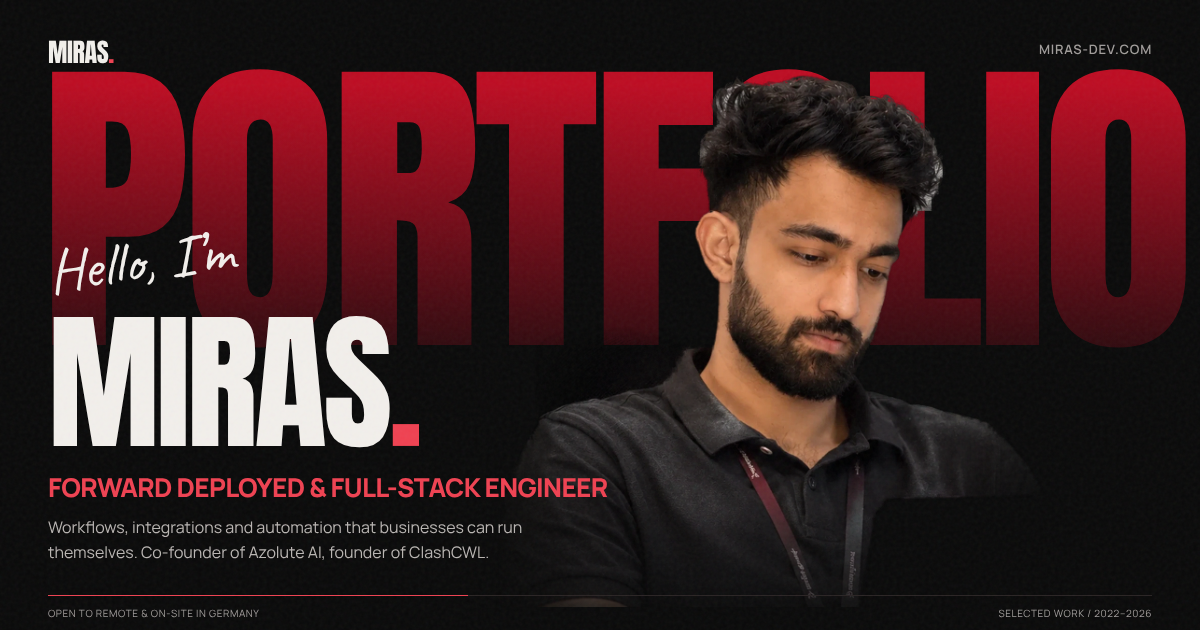
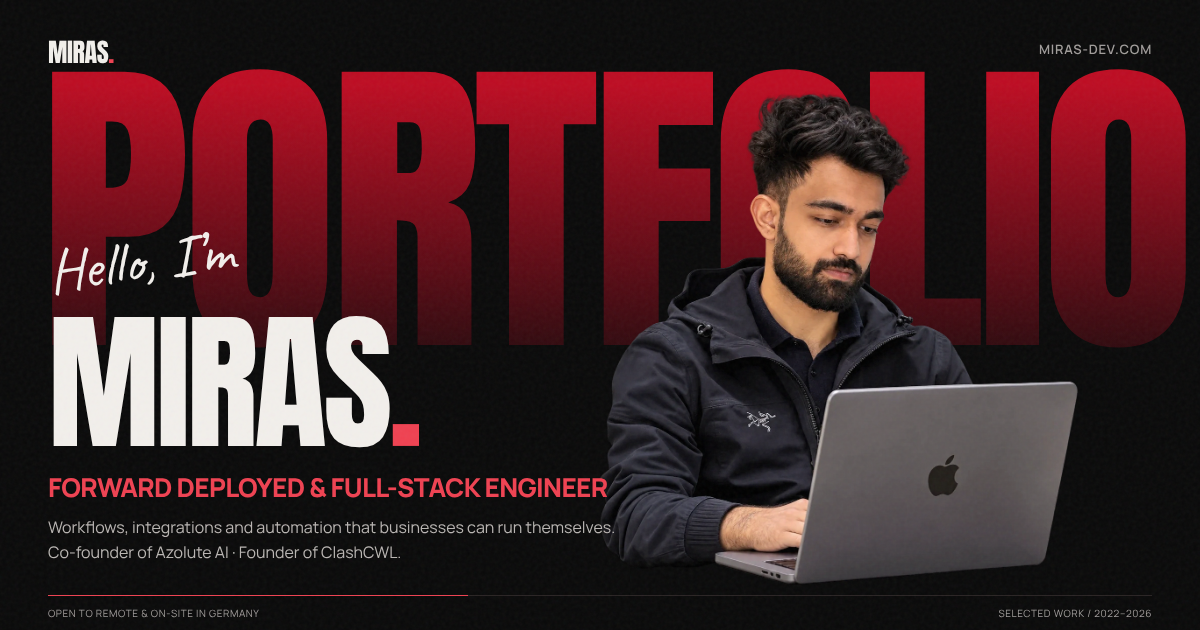
Use the new portrait cutout with the MacBook
Replace the hero portrait with a cleaner cut-out that includes the
laptop, anchor it to the hero's bottom edge, lighten the edge masks, and
re-tune placement for tablet and phone widths. Re-render the Open Graph
banner from the new cutout.

Claude-Session: https://claude.ai/code/session_01TG57Rzeoz1AkFgyR1rBvtf

Changed region(s): [[0.4317, 0.1206, 0.8942, 0.9349], [0.0308, 0.8444, 0.4008, 0.9048], [0.4625, 0.9349, 0.5242, 0.9651]]

diff --git a/src/index.css b/src/index.css
@@ -91,12 +91,12 @@ svg { flex-shrink: 0; stroke-width: 1.5; }
   width: calc(100% - var(--gutter) * 2); white-space: nowrap; transform-origin: center;
 }
 .hero-title:after { content: ""; position: absolute; inset: 0; background: linear-gradient(0deg, var(--bg), transparent 90%); opacity: .85; }
-.hero-portrait { position: absolute; top: 65px; bottom: 0; left: 23%; width: 57%; z-index: 1; transform-origin: bottom center; pointer-events: none; }
+.hero-portrait { position: absolute; top: 40px; bottom: 0; left: 23%; width: 57%; z-index: 1; transform-origin: bottom center; pointer-events: none; }
 .hero-portrait img {
-  position: absolute; top: 0; height: 120%; width: 100%; object-fit: contain; object-position: center top;
-  filter: contrast(1.05) saturate(.9);
-  mask-image: linear-gradient(to bottom, black 72%, transparent 100%), linear-gradient(to right, transparent 0, black 18%, black 82%, transparent 100%);
-  -webkit-mask-image: linear-gradient(to bottom, black 72%, transparent 100%), linear-gradient(to right, transparent 0, black 18%, black 82%, transparent 100%);
+  position: absolute; bottom: 0; left: 0; height: 104%; width: 100%; object-fit: contain; object-position: center bottom;
+  filter: contrast(1.04) saturate(.92);
+  mask-image: linear-gradient(to bottom, black 90%, transparent 100%), linear-gradient(to right, transparent 0, black 8%, black 92%, transparent 100%);
+  -webkit-mask-image: linear-gradient(to bottom, black 90%, transparent 100%), linear-gradient(to right, transparent 0, black 8%, black 92%, transparent 100%);
   mask-composite: intersect; -webkit-mask-composite: source-in;
 }
 .hero-intro { position: absolute; left: var(--gutter); bottom: 110px; width: 28%; z-index: 3; }
@@ -393,8 +393,8 @@ html[data-motion=off] *, html[data-motion=off] *:before, html[data-motion=off] *
   .header-contact { display: none; }
   .hero { height: 690px; }
   .hero-title { top: 95px; font-size: 21.1vw; }
-  .hero-portrait { top: auto; height: 78%; width: 65%; left: 19%; bottom: 1px; }
-  .hero-portrait img { position: static; height: 100%; object-position: center bottom; }
+  .hero-portrait { top: auto; height: 80%; width: 66%; left: 19%; bottom: 0; }
+  .hero-portrait img { height: 100%; }
   .hero-intro { width: 33%; bottom: 110px; }
   .hero-intro h1 { font-size: 61px; }
   .hero-role { font-size: 17px; }
@@ -480,8 +480,8 @@ html[data-motion=off] *, html[data-motion=off] *:before, html[data-motion=off] *
   .availability i { width: 4px; height: 4px; }
   .hero-title { top: 74px; left: 17px; font-size: 23.8vw; letter-spacing: -.025em; line-height: 1.15; }
   .hero-title:after { opacity: .5; }
-  .hero-portrait { left: 19%; width: 78%; height: 465px; bottom: 269px; }
-  .hero-portrait img { mask-image: linear-gradient(to bottom, black 65%, transparent 100%), linear-gradient(to right, transparent 0, black 15%, black 85%, transparent 100%); -webkit-mask-image: linear-gradient(to bottom, black 65%, transparent 100%), linear-gradient(to right, transparent 0, black 15%, black 85%, transparent 100%); }
+  .hero-portrait { left: -8%; width: 96%; height: 500px; bottom: 285px; }
+  .hero-portrait img { mask-image: linear-gradient(to bottom, black 76%, transparent 100%), linear-gradient(to right, transparent 0, black 8%, black 92%, transparent 100%); -webkit-mask-image: linear-gradient(to bottom, black 76%, transparent 100%), linear-gradient(to right, transparent 0, black 8%, black 92%, transparent 100%); }
   .hero-intro { left: 20px; right: 20px; bottom: 92px; width: auto; display: grid; grid-template-columns: 1.2fr 1fr; align-items: start; column-gap: 20px; z-index: 3; }
   .hero-intro .handwriting { grid-column: 1 / -1; font-size: 35px; margin-bottom: 3px; }
   .hero-intro h1 { font-size: 66px; grid-column: 1 / -1; line-height: 1.04; margin-bottom: 13px; letter-spacing: -.02em; }
@@ -614,7 +614,7 @@ html[data-motion=off] *, html[data-motion=off] *:before, html[data-motion=off] *
 }
 @media (max-width: 370px) {
   .hero { height: 770px; }
-  .hero-portrait { height: 425px; bottom: 284px; left: 15%; width: 83%; }
+  .hero-portrait { height: 450px; bottom: 290px; left: -10%; width: 100%; }
   .hero-intro { column-gap: 12px; grid-template-columns: 1.15fr 1fr; bottom: 78px; }
   .hero-intro h1 { font-size: 58px; }
   .hero-intro .handwriting { font-size: 31px; }
